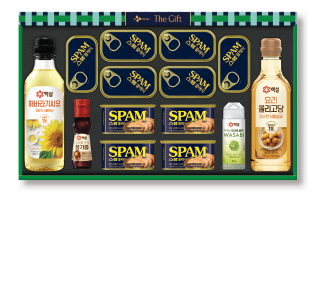
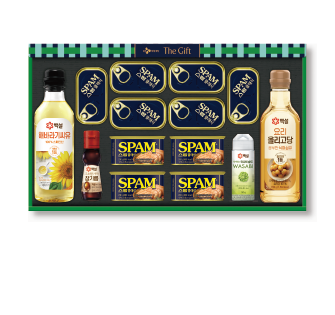
update files

diff --git a/2026gift_seol02/css/style.css b/2026gift_seol02/css/style.css
@@ -321,28 +321,29 @@
    Page Positions
 ====================== */
 /* page3 */
-.page3 .prd1 { right: 200x; top: 180px; }
-.page3 .prd2 { right: 110px; top: 180px; }
-.page3 .prd3 { right: 200px; top: 490px; }
+.page3 .prd1 { right: 360px; top: 170px; }
+.page3 .prd2 { right: 100px; top: 170px; }
+.page3 .prd3 { right: 360px; top: 490px; }
 .page3 .prd4 { right: 110px; top: 490px; }
 
 /* page4 */
-.page4 .prd1  { left: 134px; top: 126px; }
-.page4 .prd2  { left: 200px; top: 490px; }
-.page4 .prd3  { right: 176px; top: 126px; }
-.page4 .prd4 { right: 142px; top: 490px; }
+.page4 .prd1  { left: 200px; top: 150px; }
+.page4 .prd2  { left: 200px; top: 460px; }
+.page4 .prd3  { right: 200px; top: 180px; }
+.page4 .prd4  { right: 180px; top: 460px; }
 
 /* page5 */
-.page5 .prd11 { left: 180px; top: 145px; }
-.page5 .prd12 { left: 200px; top: 450px; }
-.page5 .prd13 { right: 200px; top: 145px; }
-.page5 .prd14 { right: 180px; top: 450px; }
+.page5 .prd5 { left: 200px; top: 145px; }
+.page5 .prd6 { left: 200px; top: 450px; }
+.page5 .prd7 { right: 190px; top: 145px; }
+.page5 .prd8 { right: 190px; top: 450px; }
 
 /* page6 */
-.page6 .prd1 { right: 370px; top: 130px; }
-.page6 .prd2 { right: 110px; top: 130px; }
-.page6 .prd3 { right: 370px; top: 468px; }
-.page6 .prd4 { right: 110px; top: 468px; }
+.page6 .prd9  { left: 200px; top: 145px; }
+.page6 .prd10 { left: 200px; top: 450px; }
+.page6 .prd11 { right: 190px; top: 145px; }
+.page6 .prd12 { right: 370px; top: 480px; }
+.page6 .prd13 { right: 120px; top: 480px; }
 
 /* page7 */
 .page7 .prd1 { right: 370px; top: 130px; }
@@ -351,17 +352,23 @@
 .page7 .prd4 { right: 110px; top: 468px; }
 
 /* page8 */
-.page8 .prd1 { right: 200px; top: 140px; }
-.page8 .prd2 { right: 340px; top: 490px; }
-.page8 .prd3 { right: 110px; top: 490px; }
+.page8 .prd1 { right: 370px; top: 160px; }
+.page8 .prd2 { right: 110px; top: 160px; }
+.page8 .prd3 { right: 370px; top: 468px; }
+.page8 .prd4 { right: 110px; top: 468px; }
 
 /* page9 */
-.page9 .prd1 { right: 170px; top: 160px; }
-.page9 .prd2 { right: 360px; top: 460px; }
-.page9 .prd3 { right: 120px; top: 460px; }
+.page9 .prd1 { right: 370px; top: 160px; }
+.page9 .prd2 { right: 110px; top: 160px; }
+.page9 .prd3 { right: 370px; top: 468px; }
+.page9 .prd4 { right: 110px; top: 468px; }
 
 /* page10 */
-.page10 .prd1 { right: 440px; top: 120px; }
+.page10 .prd1 {  right: 200px;  top: 140px;}
+.page10 .prd2 {  right: 380px;  top: 460px;}
+.page10 .prd3 {  right: 120px;  top: 460px;}
+
+/*.page10 .prd1 { right: 440px; top: 120px; }
 .page10 .prd2 { right: 280px; top: 120px; }
 .page10 .prd3 { right: 110px; top: 120px; }
 .page10 .prd4 { right: 440px; top: 330px; }
@@ -379,9 +386,15 @@
 .page11 .prd5 { right: 110px; top: 576px; }
 
 /* page12 */
-.page12 .prd1 { right: 186px; top: 140px; }
-.page12 .prd2 { right: 360px; top: 460px; }
-.page12 .prd3 { right: 110px; top: 460px; }
+.page12 .prd1 {  right: 370px;  top: 140px;}
+.page12 .prd2 {  right: 180px;  top: 140px;}
+.page12 .prd3 {  right: 440px;  top: 330px;}
+.page12 .prd4 {  right: 270px;  top: 330px;}
+.page12 .prd5 {  right: 110px;  top: 330px;}
+.page12 .prd6 {  right: 440px;  top: 550px;}
+.page12 .prd7 {  right: 270px;  top: 550px;}
+.page12 .prd8 {  right: 110px;  top: 550px;}
+
 
 /* ======================
    Preview (공용)

diff --git a/2026gift_seol02/contents/page12.html b/2026gift_seol02/contents/page12.html
@@ -1,16 +1,35 @@
-<div class='contents'>
-  <img class='bg' src='img/page/bg12.png' alt=''> 
+<div class="contents">
+  <img class="bg" src="img/page/bg12.png" alt="">
 
-  <div class='list page12'>
-    <!-- p.22-23 오른쪽 -->
-    <a href='#;' onclick='detail( 8, 1 );' class='prd1'>
+  <div class="list page12">
+    <!-- 1행 (2개) -->
+    <a href="#;" onclick="detail(8, 1);" class="prd1">
       <img src="img/goods/thumb/cate8/8-1.png" alt="">
     </a>
-    <a href='#;' onclick='detail( 8, 2 );' class='prd2'>
+    <a href="#;" onclick="detail(8, 2);" class="prd2">
       <img src="img/goods/thumb/cate8/8-2.png" alt="">
     </a>
-    <a href='#;' onclick='detail( 8, 3 );' class='prd3'>
+
+    <!-- 2행 (3개) -->
+    <a href="#;" onclick="detail(8, 3);" class="prd3">
       <img src="img/goods/thumb/cate8/8-3.png" alt="">
+    </a>
+    <a href="#;" onclick="detail(8, 4);" class="prd4">
+      <img src="img/goods/thumb/cate8/8-4.png" alt="">
+    </a>
+    <a href="#;" onclick="detail(8, 5);" class="prd5">
+      <img src="img/goods/thumb/cate8/8-5.png" alt="">
+    </a>
+
+    <!-- 3행 (3개) -->
+    <a href="#;" onclick="detail(8, 6);" class="prd6">
+      <img src="img/goods/thumb/cate8/8-6.png" alt="">
+    </a>
+    <a href="#;" onclick="detail(8, 7);" class="prd7">
+      <img src="img/goods/thumb/cate8/8-7.png" alt="">
+    </a>
+    <a href="#;" onclick="detail(8, 8);" class="prd8">
+      <img src="img/goods/thumb/cate8/8-8.png" alt="">
     </a>
   </div>
 </div>

diff --git a/2026gift_seol02/contents/page10.html b/2026gift_seol02/contents/page10.html
@@ -3,32 +3,17 @@
 
   <div class='list page10'>
     <!-- p.18-19 오른쪽 -->
-    <a href='#;' onclick='detail( 6, 1 );' class='prd1'>
+
+    <a href="#;" onclick="detail(6, 1);" class="prd1">
       <img src="img/goods/thumb/cate6/6-1.png" alt="">
     </a>
-    <a href='#;' onclick='detail( 6, 2 );' class='prd2'>
+
+    <a href="#;" onclick="detail(6, 2);" class="prd2">
       <img src="img/goods/thumb/cate6/6-2.png" alt="">
     </a>
-    <a href='#;' onclick='detail( 6, 3 );' class='prd3'>
+
+    <a href="#;" onclick="detail(6, 3);" class="prd3">
       <img src="img/goods/thumb/cate6/6-3.png" alt="">
-    </a>
-    <a href='#;' onclick='detail( 6, 4 );' class='prd4'>
-      <img src="img/goods/thumb/cate6/6-4.png" alt="">
-    </a>
-    <a href='#;' onclick='detail( 6, 5 );' class='prd5'>
-      <img src="img/goods/thumb/cate6/6-5.png" alt="">
-    </a>
-    <a href='#;' onclick='detail( 6, 6 );' class='prd6'>
-      <img src="img/goods/thumb/cate6/6-6.png" alt="">
-    </a>
-    <a href='#;' onclick='detail( 6, 7 );' class='prd7'>
-      <img src="img/goods/thumb/cate6/6-7.png" alt="">
-    </a>
-    <a href='#;' onclick='detail( 6, 8 );' class='prd8'>
-      <img src="img/goods/thumb/cate6/6-8.png" alt="">
-    </a>
-    <a href='#;' onclick='detail( 6, 9 );' class='prd9'>
-      <img src="img/goods/thumb/cate6/6-9.png" alt="">
     </a>
   </div>
 </div>

diff --git a/2026gift_seol02/contents/page6.html b/2026gift_seol02/contents/page6.html
@@ -1,19 +1,24 @@
 <div class='contents'>
   <img class='bg' src='img/page/bg6.png' alt=''>
 
-  <!-- 10-11p 오른쪽 --> 
+  <!-- 10-11p 왼쪽 --> 
   <div class='list page6'>
-    <a href='#;' onclick='detail( 2, 1 );' class='prd1'>
-      <img src="img/goods/thumb/cate2/2-1.png" alt="">
+    <a href="#;" onclick="detail(2, 9);" class="prd9">
+      <img src="img/goods/thumb/cate2/2-9.png" alt="">
     </a>
-    <a href='#;' onclick='detail( 2, 2 );' class='prd2'>
-      <img src="img/goods/thumb/cate2/2-2.png" alt="">
+    <a href="#;" onclick="detail(2, 10);" class="prd10">
+      <img src="img/goods/thumb/cate2/2-10.png" alt="">
     </a>
-    <a href='#;' onclick='detail( 2, 3 );' class='prd3'>
-      <img src="img/goods/thumb/cate2/2-3.png" alt="">
+
+  <!-- 10-11p 오른쪽 --> 
+    <a href="#;" onclick="detail(2, 11);" class="prd11">
+      <img src="img/goods/thumb/cate2/2-11.png" alt="">
     </a>
-    <a href='#;' onclick='detail( 2, 4 );' class='prd4'>
-      <img src="img/goods/thumb/cate2/2-4.png" alt="">
+    <a href="#;" onclick="detail(2, 12);" class="prd12">
+      <img src="img/goods/thumb/cate2/2-12.png" alt="">
+    </a>
+    <a href="#;" onclick="detail(2, 13);" class="prd13">
+      <img src="img/goods/thumb/cate2/2-13.png" alt="">
     </a>
   </div> 
 </div>

diff --git a/2026gift_seol02/contents/page5.html b/2026gift_seol02/contents/page5.html
@@ -1,21 +1,26 @@
 <div class="contents">
   <img class="bg" src="img/page/bg5.png" alt="" />
 
-  <!-- p.8-9 왼쪽 -->
-  <div class='list page5'>
-    <a href='#;' onclick='detail( 1, 11 );' class='prd11'>
-      <img src="img/goods/thumb/cate1/1-11.png" alt="">
+  <!-- p.8-9 -->
+  <div class="list page5">
+
+    <!-- 왼쪽 -->
+    <a href="#;" onclick="detail(2, 5);" class="prd5">
+      <img src="img/goods/thumb/cate2/2-5.png" alt="">
     </a>
-    <a href='#;' onclick='detail( 1, 12 );' class='prd12'>
-      <img src="img/goods/thumb/cate1/1-12.png" alt="">
+
+    <a href="#;" onclick="detail(2, 6);" class="prd6">
+      <img src="img/goods/thumb/cate2/2-6.png" alt="">
     </a>
-    
-  <!-- p.8-9 오른쪽 -->
-    <a href='#;' onclick='detail( 1, 13 );' class='prd13'>
-      <img src="img/goods/thumb/cate1/1-13.png" alt="">
+
+    <!-- 오른쪽 -->
+    <a href="#;" onclick="detail(2, 7);" class="prd7">
+      <img src="img/goods/thumb/cate2/2-7.png" alt="">
     </a>
-    <a href='#;' onclick='detail( 1, 14 );' class='prd14'>
-      <img src="img/goods/thumb/cate1/1-14.png" alt="">
+
+    <a href="#;" onclick="detail(2, 8);" class="prd8">
+      <img src="img/goods/thumb/cate2/2-8.png" alt="">
     </a>
-  </div> 
+
+  </div>
 </div>

diff --git a/2026gift_seol02/contents/page3.html b/2026gift_seol02/contents/page3.html
@@ -2,17 +2,18 @@
   <img class='bg' src='img/page/bg3.png' alt=''>
 
     <!-- p.4-5 오른쪽 -->
-    <a href="#;" onclick="detail( 1, 1 );" class="prd1">
-      <img src="img/goods/thumb/cate1/1-1.png" alt="" />
-    </a>
-    <a href="#;" onclick="detail( 1, 2 );" class="prd2">
-      <img src="img/goods/thumb/cate1/1-2.png" alt="" />
-    </a>
-    <a href="#;" onclick="detail( 1, 3 );" class="prd3">
-      <img src="img/goods/thumb/cate1/1-3.png" alt="" />
-    </a>
-    <a href="#;" onclick="detail( 1, 4 );" class="prd4">
-      <img src="img/goods/thumb/cate1/1-4.png" alt="" />
-    </a>
+     <div class="list page3">
+      <a href="#;" onclick="detail( 1, 1 );" class="prd1">
+        <img src="img/goods/thumb/cate1/1-1.png" alt="" />
+      </a>
+      <a href="#;" onclick="detail( 1, 2 );" class="prd2">
+        <img src="img/goods/thumb/cate1/1-2.png" alt="" />
+      </a>
+      <a href="#;" onclick="detail( 1, 3 );" class="prd3">
+        <img src="img/goods/thumb/cate1/1-3.png" alt="" />
+      </a>
+      <a href="#;" onclick="detail( 1, 4 );" class="prd4">
+        <img src="img/goods/thumb/cate1/1-4.png" alt="" />
+      </a>
   </div>
 </div>

diff --git a/2026gift_seol02/index.html b/2026gift_seol02/index.html
@@ -1,7 +1,7 @@
 <!DOCTYPE html>
 <html lang="ko">
   <head>
-    <title>CJ 제일제당 - 2025 The Gift Collection, 기업고객용</title>
+    <title>CJ 제일제당 - 2026 The Gift Collection, 기업고객용</title>
     <meta charset="UTF-8" />
     <meta name="Author" content="likearts, sy" />
     <meta http-equiv="X-UA-Compatible" content="IE=edge" />

diff --git a/2026gift_seol02/contents/page8.html b/2026gift_seol02/contents/page8.html
@@ -12,5 +12,8 @@
     <a href='#;' onclick='detail( 4, 3 );' class='prd3'>
       <img src="img/goods/thumb/cate4/4-3.png" alt="">
     </a>
+    <a href='#;' onclick='detail( 4, 4 );' class='prd4'>
+      <img src="img/goods/thumb/cate4/4-4.png" alt="">
+    </a>
   </div>
 </div>

diff --git a/2026gift_seol02/contents/page9.html b/2026gift_seol02/contents/page9.html
@@ -12,5 +12,8 @@
     <a href='#;' onclick='detail( 5, 3 );' class='prd3'>
       <img src="img/goods/thumb/cate5/5-3.png" alt="">
     </a>
+    <a href='#;' onclick='detail( 5, 4 );' class='prd4'>
+      <img src="img/goods/thumb/cate5/5-4.png" alt="">
+    </a>
   </div>
 </div>
